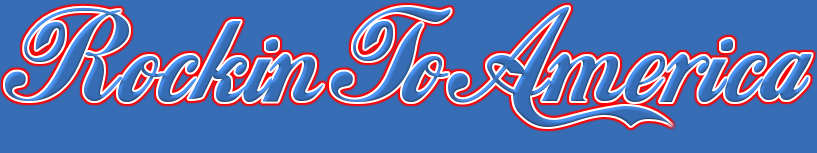
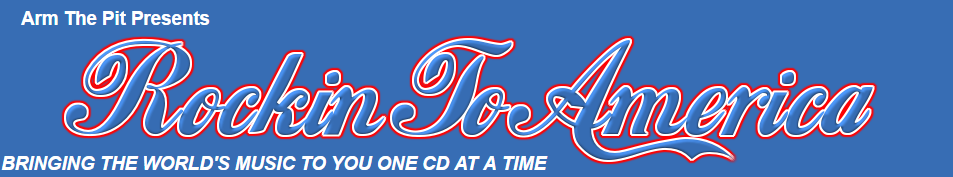
add includes for header and navigation. added header/navigation includes to index.php. updated styling for header and navigation.

diff --git a/assets/css/style.css b/assets/css/style.css
@@ -30,3 +30,116 @@ a:active {
     font-weight: bold;
     color: #376db4;
 }
+
+header {
+    background: #376db4;
+    padding: 10px 0 10px 0;
+}
+
+.navbar {
+}
+
+.navbar-default {
+    background-color: #ffffff;
+    border-top: 3px double #ff0000;
+    border-bottom: 3px double #ff0000;
+    padding: 2px 0 2px 0;
+    font-size: 18px;
+}
+
+.navbar-default .navbar-brand {
+    color: #376db4;
+    font-size: 30px;
+}
+
+.navbar-default .navbar-brand:hover,
+.navbar-default .navbar-brand:focus {
+    background: #376db4;
+    color: #ffffff;
+}
+
+.navbar-default .navbar-text {
+    color: #376db4;
+}
+
+.navbar-default .navbar-nav > li > a {
+    color: #376db4;
+}
+
+.navbar-default .navbar-nav > li > a:hover,
+.navbar-default .navbar-nav > li > a:focus {
+    background: #376db4;
+    color: #ffffff;
+}
+
+.navbar-default .navbar-nav > .active > a,
+.navbar-default .navbar-nav > .active > a:hover,
+.navbar-default .navbar-nav > .active > a:focus {
+    color: #ffffff;
+    background-color: #376db4;
+}
+
+.navbar-default .navbar-nav > .open > a,
+.navbar-default .navbar-nav > .open > a:hover,
+.navbar-default .navbar-nav > .open > a:focus {
+    color: #ffffff;
+    background-color: #376db4;
+}
+
+.navbar-default .navbar-toggle {
+    border-color: #376db4;
+    color: #ffffff;
+}
+
+.navbar-default .navbar-toggle:hover,
+.navbar-default .navbar-toggle:focus {
+    background: #376db4;
+    color: #ffffff;
+}
+
+.navbar-default .navbar-toggle .icon-bar {
+    background: #376db4;
+    color: #ffffff;
+}
+
+.navbar-default .navbar-collapse,
+.navbar-default .navbar-form {
+    /*border-color: #376db4;*/
+    border: 0;
+}
+
+.navbar-default .navbar-link {
+    color: #376db4;
+}
+
+.navbar-default .navbar-link:hover {
+    color: #ffffff;
+}
+
+@media (max-width: 767px) {
+    .navbar-default {
+        font-size: 14px;
+    }
+    .navbar-default .navbar-brand {
+    color: #376db4;
+    font-size: 18px;
+}
+    .navbar-default .navbar-toggle .icon-bar {
+        background: #376db4;
+        color: #ffffff;
+    }
+    .navbar-default .navbar-nav .open .dropdown-menu > li > a {
+        color: #ffffff;
+    }
+    .navbar-default .navbar-nav .open .dropdown-menu > li > a:hover,
+    .navbar-default .navbar-nav .open .dropdown-menu > li > a:focus {
+        background: #376db4;
+        color: #ffffff;
+    }
+    .navbar-default .navbar-nav .open .dropdown-menu > .active > a,
+    .navbar-default .navbar-nav .open .dropdown-menu > .active > a:hover,
+    .navbar-default .navbar-nav .open .dropdown-menu > .active > a:focus {
+        color: #ffffff;
+        background-color: #376db4;
+    }
+}

diff --git a/includes/navigation.php b/includes/navigation.php
@@ -1,0 +1,20 @@
+    <!-- This the navigation bar. -->
+    <nav class="navbar navbar-default" role="navigation">
+        <div class="navbar-header">
+            <button type="button" class="navbar-toggle" data-toggle="collapse" data-target="#example-navbar-collapse">
+                <span class="sr-only">Toggle navigation</span>
+                <span class="icon-bar"></span>
+                <span class="icon-bar"></span>
+                <span class="icon-bar"></span>
+            </button>
+            <a class="navbar-brand" href="#">
+            	Placeholder
+            </a>
+        </div>
+        <div class="collapse navbar-collapse" id="example-navbar-collapse">
+            <ul class="nav navbar-nav navbar-right">
+                <li><a href="index.php">Home</a></li>
+                <li><a href="contactus.php">Contact Us</a></li>
+            </ul>
+        </div>
+    </nav>

diff --git a/index.php b/index.php
@@ -1,12 +1,17 @@
 <!DOCTYPE html>
 <html>
+
 <head>
-	<title>Rockin To America</title>
-	<meta charset="utf-8">
-	<?php include("includes/style.php");?>
+    <title>Rockin To America</title>
+    <?php include("includes/style.php");?>
 </head>
+
 <body>
-	<h1>This is a test</h1>
-	<?php include("includes/js.php");?>
+    <div class="content-fluid">
+        <?php include("includes/header.php");?>
+        <?php include("includes/navigation.php");?>
+    </div>
+    <?php include("includes/js.php");?>
 </body>
+
 </html>

diff --git a/includes/style.php b/includes/style.php
@@ -1,4 +1,5 @@
 	<meta http-equiv="content-type" content="text/html; charset=utf-8" />
+	<meta name="viewport" content="width=device-width, initial-scale=1.0" />
 	<!-- Latest compiled and minified CSS -->
 	<link rel="stylesheet" href="https://maxcdn.bootstrapcdn.com/bootstrap/3.3.7/css/bootstrap.min.css" integrity="sha384-BVYiiSIFeK1dGmJRAkycuHAHRg32OmUcww7on3RYdg4Va+PmSTsz/K68vbdEjh4u" crossorigin="anonymous">
 	<!-- Latest Font Awesome -->

diff --git a/includes/header.php b/includes/header.php
@@ -1,0 +1,3 @@
+<header>
+	<img src="assets/images/header_original.png" alt="Rockin To America Logo" class="img-responsive center-block">
+</header>
